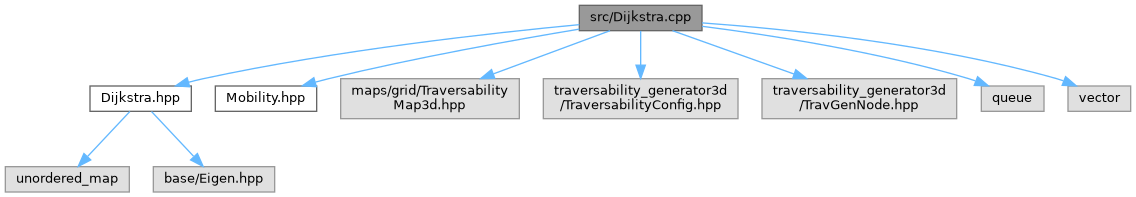
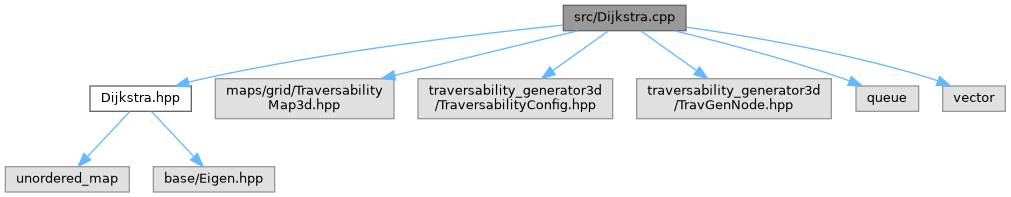
Deploying to gh-pages from @ dfki-ric/ugv_nav4d@059015e9d1788395c07776a4d9aec28eac643af1 🚀

diff --git a/Dijkstra_8hpp_source.html b/Dijkstra_8hpp_source.html
@@ -70,27 +70,23 @@ $(document).ready(function() { init_codefold(0); });
 <div class="line"><a id="l00013" name="l00013"></a><span class="lineno">   13</span> </div>
 <div class="line"><a id="l00014" name="l00014"></a><span class="lineno">   14</span><span class="keyword">namespace </span><a class="code hl_namespace" href="namespaceugv__nav4d.html">ugv_nav4d</a></div>
 <div class="line"><a id="l00015" name="l00015"></a><span class="lineno">   15</span>{</div>
-<div class="line"><a id="l00016" name="l00016"></a><span class="lineno">   16</span>    <span class="keyword">struct </span>Mobility;</div>
-<div class="line"><a id="l00017" name="l00017"></a><span class="lineno">   17</span> </div>
-<div class="foldopen" id="foldopen00018" data-start="{" data-end="};">
-<div class="line"><a id="l00018" name="l00018"></a><span class="lineno"><a class="line" href="classugv__nav4d_1_1Dijkstra.html">   18</a></span>    <span class="keyword">class </span><a class="code hl_class" href="classugv__nav4d_1_1Dijkstra.html">Dijkstra</a></div>
-<div class="line"><a id="l00019" name="l00019"></a><span class="lineno">   19</span>    {</div>
-<div class="line"><a id="l00020" name="l00020"></a><span class="lineno">   20</span>    <span class="keyword">public</span>:</div>
-<div class="line"><a id="l00021" name="l00021"></a><span class="lineno">   21</span>        </div>
-<div class="line"><a id="l00025" name="l00025"></a><span class="lineno">   25</span>        <span class="keyword">static</span> <span class="keywordtype">void</span> <a class="code hl_function" href="classugv__nav4d_1_1Dijkstra.html#aa250ef5fc1a8f9d9d18a244ecce90cc2">computeCost</a>(<span class="keyword">const</span> maps::grid::TraversabilityNodeBase* source,</div>
-<div class="line"><a id="l00026" name="l00026"></a><span class="lineno">   26</span>                                std::unordered_map&lt;const maps::grid::TraversabilityNodeBase*, double&gt; &amp;outDistances,</div>
-<div class="line"><a id="l00027" name="l00027"></a><span class="lineno">   27</span>                                <span class="keyword">const</span> traversability_generator3d::TraversabilityConfig&amp; config,</div>
-<div class="line"><a id="l00028" name="l00028"></a><span class="lineno">   28</span>                                <span class="keyword">const</span> <a class="code hl_struct" href="structugv__nav4d_1_1Mobility.html">ugv_nav4d::Mobility</a>&amp; mobilityConfig);</div>
-<div class="line"><a id="l00029" name="l00029"></a><span class="lineno">   29</span>    };</div>
+<div class="foldopen" id="foldopen00016" data-start="{" data-end="};">
+<div class="line"><a id="l00016" name="l00016"></a><span class="lineno"><a class="line" href="classugv__nav4d_1_1Dijkstra.html">   16</a></span>    <span class="keyword">class </span><a class="code hl_class" href="classugv__nav4d_1_1Dijkstra.html">Dijkstra</a></div>
+<div class="line"><a id="l00017" name="l00017"></a><span class="lineno">   17</span>    {</div>
+<div class="line"><a id="l00018" name="l00018"></a><span class="lineno">   18</span>    <span class="keyword">public</span>:</div>
+<div class="line"><a id="l00019" name="l00019"></a><span class="lineno">   19</span> </div>
+<div class="line"><a id="l00023" name="l00023"></a><span class="lineno">   23</span>        <span class="keyword">static</span> <span class="keywordtype">void</span> <a class="code hl_function" href="classugv__nav4d_1_1Dijkstra.html#a4788fa34f7bd24c3c1494564d3041920">computeCost</a>(<span class="keyword">const</span> maps::grid::TraversabilityNodeBase* source,</div>
+<div class="line"><a id="l00024" name="l00024"></a><span class="lineno">   24</span>                                std::unordered_map&lt;const maps::grid::TraversabilityNodeBase*, double&gt; &amp;outDistances,</div>
+<div class="line"><a id="l00025" name="l00025"></a><span class="lineno">   25</span>                                <span class="keyword">const</span> traversability_generator3d::TraversabilityConfig&amp; config);</div>
+<div class="line"><a id="l00026" name="l00026"></a><span class="lineno">   26</span>    };</div>
 </div>
-<div class="line"><a id="l00030" name="l00030"></a><span class="lineno">   30</span>        </div>
-<div class="line"><a id="l00031" name="l00031"></a><span class="lineno">   31</span>} </div>
-<div class="ttc" id="aclassugv__nav4d_1_1Dijkstra_html"><div class="ttname"><a href="classugv__nav4d_1_1Dijkstra.html">ugv_nav4d::Dijkstra</a></div><div class="ttdef"><b>Definition</b> Dijkstra.hpp:19</div></div>
-<div class="ttc" id="aclassugv__nav4d_1_1Dijkstra_html_aa250ef5fc1a8f9d9d18a244ecce90cc2"><div class="ttname"><a href="classugv__nav4d_1_1Dijkstra.html#aa250ef5fc1a8f9d9d18a244ecce90cc2">ugv_nav4d::Dijkstra::computeCost</a></div><div class="ttdeci">static void computeCost(const maps::grid::TraversabilityNodeBase *source, std::unordered_map&lt; const maps::grid::TraversabilityNodeBase *, double &gt; &amp;outDistances, const traversability_generator3d::TraversabilityConfig &amp;config, const ugv_nav4d::Mobility &amp;mobilityConfig)</div><div class="ttdef"><b>Definition</b> Dijkstra.cpp:12</div></div>
+<div class="line"><a id="l00027" name="l00027"></a><span class="lineno">   27</span>        </div>
+<div class="line"><a id="l00028" name="l00028"></a><span class="lineno">   28</span>} </div>
+<div class="ttc" id="aclassugv__nav4d_1_1Dijkstra_html"><div class="ttname"><a href="classugv__nav4d_1_1Dijkstra.html">ugv_nav4d::Dijkstra</a></div><div class="ttdef"><b>Definition</b> Dijkstra.hpp:17</div></div>
+<div class="ttc" id="aclassugv__nav4d_1_1Dijkstra_html_a4788fa34f7bd24c3c1494564d3041920"><div class="ttname"><a href="classugv__nav4d_1_1Dijkstra.html#a4788fa34f7bd24c3c1494564d3041920">ugv_nav4d::Dijkstra::computeCost</a></div><div class="ttdeci">static void computeCost(const maps::grid::TraversabilityNodeBase *source, std::unordered_map&lt; const maps::grid::TraversabilityNodeBase *, double &gt; &amp;outDistances, const traversability_generator3d::TraversabilityConfig &amp;config)</div><div class="ttdef"><b>Definition</b> Dijkstra.cpp:11</div></div>
 <div class="ttc" id="anamespacemaps_html"><div class="ttname"><a href="namespacemaps.html">maps</a></div><div class="ttdef"><b>Definition</b> Dijkstra.hpp:5</div></div>
 <div class="ttc" id="anamespacetraversability__generator3d_html"><div class="ttname"><a href="namespacetraversability__generator3d.html">traversability_generator3d</a></div><div class="ttdef"><b>Definition</b> Dijkstra.hpp:10</div></div>
 <div class="ttc" id="anamespaceugv__nav4d_html"><div class="ttname"><a href="namespaceugv__nav4d.html">ugv_nav4d</a></div><div class="ttdef"><b>Definition</b> ConfigLoader.hpp:9</div></div>
-<div class="ttc" id="astructugv__nav4d_1_1Mobility_html"><div class="ttname"><a href="structugv__nav4d_1_1Mobility.html">ugv_nav4d::Mobility</a></div><div class="ttdef"><b>Definition</b> Mobility.hpp:12</div></div>
 </div><!-- fragment --></div><!-- contents -->
 <!-- start footer part -->
 <hr class="footer"/><address class="footer"><small>

diff --git a/Mobility_8hpp.html b/Mobility_8hpp.html
@@ -54,28 +54,26 @@ This graph shows which files directly or indirectly include this file:</div>
 <div class="dyncontent">
 <div class="center"><img src="Mobility_8hpp__dep__incl.png" border="0" usemap="#asrc_2Mobility_8hppdep" alt=""/></div>
 <map name="asrc_2Mobility_8hppdep" id="asrc_2Mobility_8hppdep">
-<area shape="rect" title=" " alt="" coords="291,5,415,31"/>
-<area shape="rect" href="Dijkstra_8cpp.html" title=" " alt="" coords="100,79,223,104"/>
-<area shape="poly" title=" " alt="" coords="310,38,194,81,192,76,309,33"/>
-<area shape="rect" href="PlannerDump_8hpp.html" title=" " alt="" coords="178,299,339,324"/>
-<area shape="poly" title=" " alt="" coords="416,33,448,51,474,77,486,103,488,126,476,178,462,220,450,236,432,253,408,270,381,283,326,301,325,296,379,278,405,265,429,249,446,232,457,217,471,177,483,126,481,104,470,80,445,55,414,38"/>
-<area shape="rect" href="PreComputedMotions_8hpp.html" title=" " alt="" coords="247,79,460,104"/>
-<area shape="poly" title=" " alt="" coords="356,44,356,79,351,79,351,44"/>
-<area shape="rect" href="Planner_8cpp.html" title=" " alt="" coords="197,372,317,397"/>
-<area shape="poly" title=" " alt="" coords="261,338,260,372,255,372,256,338"/>
-<area shape="rect" href="PlannerDump_8cpp.html" title=" " alt="" coords="12,372,172,397"/>
-<area shape="poly" title=" " alt="" coords="220,332,120,374,118,369,218,327"/>
-<area shape="rect" href="EnvironmentXYZTheta_8hpp.html" title=" " alt="" coords="5,152,224,177"/>
-<area shape="poly" title=" " alt="" coords="303,110,154,154,153,149,301,105"/>
-<area shape="rect" href="PreComputedMotions_8cpp.html" title=" " alt="" coords="249,152,461,177"/>
-<area shape="poly" title=" " alt="" coords="356,118,357,152,352,152,351,118"/>
-<area shape="rect" href="EnvironmentXYZTheta_8cpp.html" title=" " alt="" coords="200,225,419,251"/>
-<area shape="poly" title=" " alt="" coords="159,179,278,223,277,228,158,184"/>
-<area shape="rect" href="Planner_8hpp.html" title=" " alt="" coords="54,225,175,251"/>
-<area shape="poly" title=" " alt="" coords="117,191,117,225,112,225,112,191"/>
-<area shape="poly" title=" " alt="" coords="151,254,236,296,234,301,149,259"/>
-<area shape="poly" title=" " alt="" coords="128,262,145,292,169,322,202,349,235,370,233,374,199,354,165,326,141,295,123,264"/>
-<area shape="poly" title=" " alt="" coords="113,265,96,372,91,371,108,264"/>
+<area shape="rect" title=" " alt="" coords="5,5,129,31"/>
+<area shape="rect" href="PlannerDump_8hpp.html" title=" " alt="" coords="153,299,315,324"/>
+<area shape="poly" title=" " alt="" coords="47,42,33,60,23,80,10,130,12,173,18,193,29,211,64,249,87,265,114,278,168,296,166,301,112,283,85,270,60,253,24,215,13,195,6,174,5,130,18,78,29,57,43,39"/>
+<area shape="rect" href="PreComputedMotions_8hpp.html" title=" " alt="" coords="33,79,246,104"/>
+<area shape="poly" title=" " alt="" coords="91,39,130,77,126,80,87,43"/>
+<area shape="rect" href="Planner_8cpp.html" title=" " alt="" coords="342,372,462,397"/>
+<area shape="poly" title=" " alt="" coords="275,327,376,369,373,374,272,332"/>
+<area shape="rect" href="PlannerDump_8cpp.html" title=" " alt="" coords="157,372,317,397"/>
+<area shape="poly" title=" " alt="" coords="238,338,239,372,234,372,232,338"/>
+<area shape="rect" href="EnvironmentXYZTheta_8hpp.html" title=" " alt="" coords="269,152,487,177"/>
+<area shape="poly" title=" " alt="" coords="192,105,340,149,339,154,190,110"/>
+<area shape="rect" href="PreComputedMotions_8cpp.html" title=" " alt="" coords="32,152,244,177"/>
+<area shape="poly" title=" " alt="" coords="142,118,141,152,136,152,136,118"/>
+<area shape="rect" href="EnvironmentXYZTheta_8cpp.html" title=" " alt="" coords="74,225,293,251"/>
+<area shape="poly" title=" " alt="" coords="335,184,216,228,214,223,333,179"/>
+<area shape="rect" href="Planner_8hpp.html" title=" " alt="" coords="317,225,439,251"/>
+<area shape="poly" title=" " alt="" coords="381,191,381,225,375,225,375,191"/>
+<area shape="poly" title=" " alt="" coords="344,259,259,301,256,296,342,254"/>
+<area shape="poly" title=" " alt="" coords="385,264,403,371,397,372,380,265"/>
+<area shape="poly" title=" " alt="" coords="370,264,353,295,329,326,295,354,261,374,259,370,292,350,325,322,348,292,365,262"/>
 </map>
 </div>
 </div>

diff --git a/Dijkstra_8cpp.html b/Dijkstra_8cpp.html
@@ -49,7 +49,6 @@ $(function() {
 </div><!--header-->
 <div class="contents">
 <div class="textblock"><code>#include &quot;<a class="el" href="Dijkstra_8hpp_source.html">Dijkstra.hpp</a>&quot;</code><br />
-<code>#include &quot;<a class="el" href="Mobility_8hpp_source.html">Mobility.hpp</a>&quot;</code><br />
 <code>#include &lt;maps/grid/TraversabilityMap3d.hpp&gt;</code><br />
 <code>#include &lt;traversability_generator3d/TraversabilityConfig.hpp&gt;</code><br />
 <code>#include &lt;traversability_generator3d/TravGenNode.hpp&gt;</code><br />
@@ -60,21 +59,19 @@ Include dependency graph for Dijkstra.cpp:</div>
 <div class="dyncontent">
 <div class="center"><img src="Dijkstra_8cpp__incl.png" border="0" usemap="#asrc_2Dijkstra_8cpp" alt=""/></div>
 <map name="asrc_2Dijkstra_8cpp" id="asrc_2Dijkstra_8cpp">
-<area shape="rect" title=" " alt="" coords="579,5,702,31"/>
+<area shape="rect" title=" " alt="" coords="563,5,686,31"/>
 <area shape="rect" href="Dijkstra_8hpp.html" title=" " alt="" coords="90,86,191,111"/>
-<area shape="poly" title=" " alt="" coords="580,27,409,47,306,62,204,81,189,85,188,80,203,76,306,57,409,41,579,22"/>
-<area shape="rect" href="Mobility_8hpp.html" title=" " alt="" coords="215,86,317,111"/>
-<area shape="poly" title=" " alt="" coords="580,32,463,53,329,81,316,85,315,80,328,76,462,47,579,26"/>
-<area shape="rect" title=" " alt="" coords="341,79,519,119"/>
-<area shape="poly" title=" " alt="" coords="611,33,494,76,492,71,609,28"/>
-<area shape="rect" title=" " alt="" coords="543,79,738,119"/>
-<area shape="poly" title=" " alt="" coords="643,31,643,65,638,65,638,31"/>
-<area shape="rect" title=" " alt="" coords="762,79,957,119"/>
-<area shape="poly" title=" " alt="" coords="673,28,795,72,793,77,672,33"/>
-<area shape="rect" title=" " alt="" coords="981,86,1044,111"/>
-<area shape="poly" title=" " alt="" coords="702,24,827,43,899,58,969,76,976,78,975,83,968,81,897,63,826,48,702,29"/>
-<area shape="rect" title=" " alt="" coords="1068,86,1131,111"/>
-<area shape="poly" title=" " alt="" coords="702,20,864,37,961,53,1057,76,1064,78,1063,83,1056,81,960,59,864,43,702,26"/>
+<area shape="poly" title=" " alt="" coords="563,28,400,47,302,62,204,81,189,85,188,80,203,76,301,57,399,42,563,22"/>
+<area shape="rect" title=" " alt="" coords="215,79,394,119"/>
+<area shape="poly" title=" " alt="" coords="579,33,395,78,394,73,578,28"/>
+<area shape="rect" title=" " alt="" coords="418,79,613,119"/>
+<area shape="poly" title=" " alt="" coords="610,33,555,73,551,68,607,29"/>
+<area shape="rect" title=" " alt="" coords="637,79,831,119"/>
+<area shape="poly" title=" " alt="" coords="642,29,698,68,695,73,639,33"/>
+<area shape="rect" title=" " alt="" coords="856,86,919,111"/>
+<area shape="poly" title=" " alt="" coords="675,28,755,49,844,76,850,78,848,83,842,81,753,54,674,33"/>
+<area shape="rect" title=" " alt="" coords="943,86,1005,111"/>
+<area shape="poly" title=" " alt="" coords="687,25,802,44,932,76,939,78,937,83,931,81,801,49,686,30"/>
 <area shape="rect" title=" " alt="" coords="5,167,129,192"/>
 <area shape="poly" title=" " alt="" coords="132,113,90,158,86,154,128,110"/>
 <area shape="rect" title=" " alt="" coords="153,167,275,192"/>

diff --git a/classugv__nav4d_1_1Dijkstra.html b/classugv__nav4d_1_1Dijkstra.html
@@ -62,12 +62,12 @@ Collaboration diagram for ugv_nav4d::Dijkstra:</div>
 <table class="memberdecls">
 <tr class="heading"><td colspan="2"><h2 class="groupheader"><a id="pub-static-methods" name="pub-static-methods"></a>
 Static Public Member Functions</h2></td></tr>
-<tr class="memitem:aa250ef5fc1a8f9d9d18a244ecce90cc2" id="r_aa250ef5fc1a8f9d9d18a244ecce90cc2"><td class="memItemLeft" align="right" valign="top">static void&#160;</td><td class="memItemRight" valign="bottom"><a class="el" href="classugv__nav4d_1_1Dijkstra.html#aa250ef5fc1a8f9d9d18a244ecce90cc2">computeCost</a> (const maps::grid::TraversabilityNodeBase *source, std::unordered_map&lt; const maps::grid::TraversabilityNodeBase *, double &gt; &amp;outDistances, const traversability_generator3d::TraversabilityConfig &amp;config, const <a class="el" href="structugv__nav4d_1_1Mobility.html">ugv_nav4d::Mobility</a> &amp;mobilityConfig)</td></tr>
-<tr class="separator:aa250ef5fc1a8f9d9d18a244ecce90cc2"><td class="memSeparator" colspan="2">&#160;</td></tr>
+<tr class="memitem:a4788fa34f7bd24c3c1494564d3041920" id="r_a4788fa34f7bd24c3c1494564d3041920"><td class="memItemLeft" align="right" valign="top">static void&#160;</td><td class="memItemRight" valign="bottom"><a class="el" href="classugv__nav4d_1_1Dijkstra.html#a4788fa34f7bd24c3c1494564d3041920">computeCost</a> (const maps::grid::TraversabilityNodeBase *source, std::unordered_map&lt; const maps::grid::TraversabilityNodeBase *, double &gt; &amp;outDistances, const traversability_generator3d::TraversabilityConfig &amp;config)</td></tr>
+<tr class="separator:a4788fa34f7bd24c3c1494564d3041920"><td class="memSeparator" colspan="2">&#160;</td></tr>
 </table>
 <h2 class="groupheader">Member Function Documentation</h2>
-<a id="aa250ef5fc1a8f9d9d18a244ecce90cc2" name="aa250ef5fc1a8f9d9d18a244ecce90cc2"></a>
-<h2 class="memtitle"><span class="permalink"><a href="#aa250ef5fc1a8f9d9d18a244ecce90cc2">&#9670;&#160;</a></span>computeCost()</h2>
+<a id="a4788fa34f7bd24c3c1494564d3041920" name="a4788fa34f7bd24c3c1494564d3041920"></a>
+<h2 class="memtitle"><span class="permalink"><a href="#a4788fa34f7bd24c3c1494564d3041920">&#9670;&#160;</a></span>computeCost()</h2>
 
 <div class="memitem">
 <div class="memproto">
@@ -91,13 +91,7 @@ Static Public Member Functions</h2></td></tr>
           <td class="paramkey"></td>
           <td></td>
           <td class="paramtype">const traversability_generator3d::TraversabilityConfig &amp;&#160;</td>
-          <td class="paramname"><em>config</em>, </td>
-        </tr>
-        <tr>
-          <td class="paramkey"></td>
-          <td></td>
-          <td class="paramtype">const <a class="el" href="structugv__nav4d_1_1Mobility.html">ugv_nav4d::Mobility</a> &amp;&#160;</td>
-          <td class="paramname"><em>mobilityConfig</em>&#160;</td>
+          <td class="paramname"><em>config</em>&#160;</td>
         </tr>
         <tr>
           <td></td>

diff --git a/functions_c.html b/functions_c.html
@@ -48,7 +48,7 @@ $(function() {
 <li>cell&#160;:&#160;<a class="el" href="structugv__nav4d_1_1CellWithPoses.html#a32e7b48bb4386ce681d209c9bd64afc4">ugv_nav4d::CellWithPoses</a>, <a class="el" href="structugv__nav4d_1_1PoseWithCell.html#a4b6307ffb218c1d4e1ce464d9f4e4a0f">ugv_nav4d::PoseWithCell</a></li>
 <li>checkStartGoalNode()&#160;:&#160;<a class="el" href="classugv__nav4d_1_1EnvironmentXYZTheta.html#a90dbd1ff0c91b6f12516470b03d48233">ugv_nav4d::EnvironmentXYZTheta</a></li>
 <li>clear()&#160;:&#160;<a class="el" href="classugv__nav4d_1_1EnvironmentXYZTheta.html#a555ad865da1117a474b36568f956b863">ugv_nav4d::EnvironmentXYZTheta</a></li>
-<li>computeCost()&#160;:&#160;<a class="el" href="classugv__nav4d_1_1Dijkstra.html#aa250ef5fc1a8f9d9d18a244ecce90cc2">ugv_nav4d::Dijkstra</a></li>
+<li>computeCost()&#160;:&#160;<a class="el" href="classugv__nav4d_1_1Dijkstra.html#a4788fa34f7bd24c3c1494564d3041920">ugv_nav4d::Dijkstra</a></li>
 <li>computeMotions()&#160;:&#160;<a class="el" href="classugv__nav4d_1_1PreComputedMotions.html#a0b433f1d9475db0624871f83d9fade71">ugv_nav4d::PreComputedMotions</a></li>
 <li>corridorWidth&#160;:&#160;<a class="el" href="classugv__nav4d_1_1EnvironmentXYZTheta.html#addf7047bf41cfcb36e09a5d40a8008f1">ugv_nav4d::EnvironmentXYZTheta</a>, <a class="el" href="structugv__nav4d_1_1PlannerConfig.html#a358481cda3ebaaa7ebcb112bf69a09b9">ugv_nav4d::PlannerConfig</a></li>
 <li>costMultiplier&#160;:&#160;<a class="el" href="classugv__nav4d_1_1Motion.html#afc785726d8a138b6ccf0a0ae3ae04ca9">ugv_nav4d::Motion</a></li>

diff --git a/classugv__nav4d_1_1Dijkstra-members.html b/classugv__nav4d_1_1Dijkstra-members.html
@@ -49,7 +49,7 @@ $(function() {
 
 <p>This is the complete list of members for <a class="el" href="classugv__nav4d_1_1Dijkstra.html">ugv_nav4d::Dijkstra</a>, including all inherited members.</p>
 <table class="directory">
-  <tr class="even"><td class="entry"><a class="el" href="classugv__nav4d_1_1Dijkstra.html#aa250ef5fc1a8f9d9d18a244ecce90cc2">computeCost</a>(const maps::grid::TraversabilityNodeBase *source, std::unordered_map&lt; const maps::grid::TraversabilityNodeBase *, double &gt; &amp;outDistances, const traversability_generator3d::TraversabilityConfig &amp;config, const ugv_nav4d::Mobility &amp;mobilityConfig)</td><td class="entry"><a class="el" href="classugv__nav4d_1_1Dijkstra.html">ugv_nav4d::Dijkstra</a></td><td class="entry"><span class="mlabel">static</span></td></tr>
+  <tr class="even"><td class="entry"><a class="el" href="classugv__nav4d_1_1Dijkstra.html#a4788fa34f7bd24c3c1494564d3041920">computeCost</a>(const maps::grid::TraversabilityNodeBase *source, std::unordered_map&lt; const maps::grid::TraversabilityNodeBase *, double &gt; &amp;outDistances, const traversability_generator3d::TraversabilityConfig &amp;config)</td><td class="entry"><a class="el" href="classugv__nav4d_1_1Dijkstra.html">ugv_nav4d::Dijkstra</a></td><td class="entry"><span class="mlabel">static</span></td></tr>
 </table></div><!-- contents -->
 <!-- start footer part -->
 <hr class="footer"/><address class="footer"><small>

diff --git a/functions_func.html b/functions_func.html
@@ -54,7 +54,7 @@ $(function() {
 <li>calculateStatistics()&#160;:&#160;<a class="el" href="classugv__nav4d_1_1PathStatistic.html#ac9e23aabdbd37e06992fc638c05c3d33">ugv_nav4d::PathStatistic</a></li>
 <li>checkStartGoalNode()&#160;:&#160;<a class="el" href="classugv__nav4d_1_1EnvironmentXYZTheta.html#a90dbd1ff0c91b6f12516470b03d48233">ugv_nav4d::EnvironmentXYZTheta</a></li>
 <li>clear()&#160;:&#160;<a class="el" href="classugv__nav4d_1_1EnvironmentXYZTheta.html#a555ad865da1117a474b36568f956b863">ugv_nav4d::EnvironmentXYZTheta</a></li>
-<li>computeCost()&#160;:&#160;<a class="el" href="classugv__nav4d_1_1Dijkstra.html#aa250ef5fc1a8f9d9d18a244ecce90cc2">ugv_nav4d::Dijkstra</a></li>
+<li>computeCost()&#160;:&#160;<a class="el" href="classugv__nav4d_1_1Dijkstra.html#a4788fa34f7bd24c3c1494564d3041920">ugv_nav4d::Dijkstra</a></li>
 <li>computeMotions()&#160;:&#160;<a class="el" href="classugv__nav4d_1_1PreComputedMotions.html#a0b433f1d9475db0624871f83d9fade71">ugv_nav4d::PreComputedMotions</a></li>
 <li>createNewState()&#160;:&#160;<a class="el" href="classugv__nav4d_1_1EnvironmentXYZTheta.html#afcc196d621d7c3c63ca12a8cfeeeadbd">ugv_nav4d::EnvironmentXYZTheta</a></li>
 <li>createNewStateFromPose()&#160;:&#160;<a class="el" href="classugv__nav4d_1_1EnvironmentXYZTheta.html#aef49e881b97f5d3dd26d1a7f7c1c4404">ugv_nav4d::EnvironmentXYZTheta</a></li>
